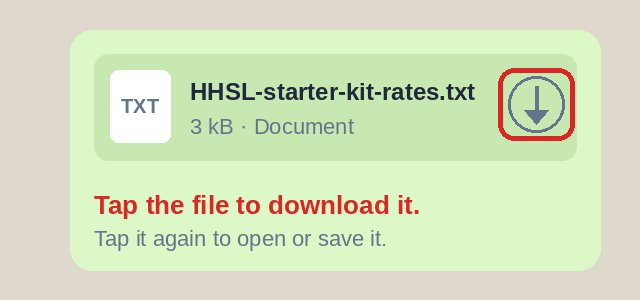
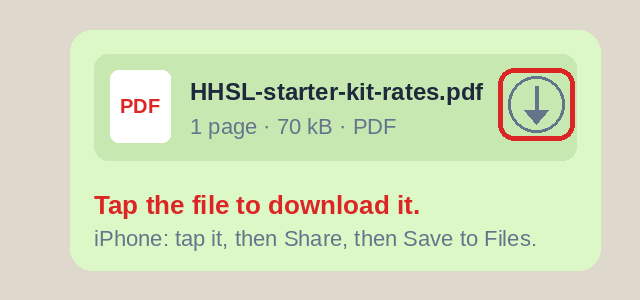
Guide: starter kit is a PDF (pictures and sender steps) (#30)
* Holiday / turnaround days read HOL/TAR in the list and on Home

* Timesheet: tick the sites and roles that go on the timesheet (and other jobs), edit the Client column text, press Save

* Menus pull down from their handle and title bar only; time picker uses AM/PM, hour and minute wheels (always saved as 24-hour)

* Payroll email says Good day; timesheet jobs show roles under each site, a read-out sentence, and a client-medic-everywhere option

Claude-Session: https://claude.ai/code/session_015B217MJCLoYGM2HCZFLF5v

* Time picker: smaller, softer time readout

Claude-Session: https://claude.ai/code/session_015B217MJCLoYGM2HCZFLF5v

* Share menu: starter kit tries .txt first (Android refuses .json); Send to payroll builds the file first, then opens the share menu with the email text

Claude-Session: https://claude.ai/code/session_015B217MJCLoYGM2HCZFLF5v

* Per-site 'Job requires lunch check' Yes/No (settings and Add site); No hides lunch options and pays the full time

Claude-Session: https://claude.ai/code/session_015B217MJCLoYGM2HCZFLF5v

* Colour picker: smaller round swatches in three rows, 12 more colours (existing sites keep theirs)

Claude-Session: https://claude.ai/code/session_015B217MJCLoYGM2HCZFLF5v

* Send to payroll: Download and share in one tap (saves to Downloads, stays on screen, opens the share menu); button becomes Share if the phone needs a second tap

Claude-Session: https://claude.ai/code/session_015B217MJCLoYGM2HCZFLF5v
[…]

diff --git a/guide/build_guide.py b/guide/build_guide.py
@@ -220,7 +220,7 @@ s.append(Paragraph("To give a colleague the app you send them <b>three things</b
 s.append(steps([
  ("Open <b>Settings</b> (the gear) and find <b>Share this app</b>. Tap it (or <b>More…</b>) to unfold it: the three buttons are inside. While it is open and you scroll, its title stays under the top bar; tap the title to fold it again. (The <b>Install on your phone</b> help at the top of Settings is hidden once the app is installed.)", A("a-share"), 50),
  ("<b>Send the link.</b> Tap <b>Share link</b>, pick <b>WhatsApp</b> and the person.", None),
- ("<b>Send the starter kit.</b> Tap <b>Share starter kit</b>, then <b>Yes, download and share</b>. The time is added to the saved file's name so it never clashes with an earlier copy.", Bs("b-share-ask"), 50),
+ ("<b>Send the starter kit.</b> Tap <b>Share starter kit</b>, then <b>Yes, download and share</b>. The kit is sent as a <b>PDF</b> (HHSL-starter-kit-rates.pdf), because WhatsApp lets your colleague download a PDF but only shows a text file as text. The time is added to the saved file's name so it never clashes with an earlier copy.", Bs("b-share-ask"), 50),
  ("The share menu opens. Pick <b>WhatsApp</b> (or Gmail) and the same person, and send the file.", Bs("b-share-after"), 50),
  ("<b>Send this guide.</b> Tap <b>Share guide (PDF)</b> and pick the same person. The guide is built into the app, so it is always the latest one. It needs a signal to load.", None)]))
 s.append(Paragraph(f"This guide is also here, if you ever need to download it again: {lk(LINK + GUIDE_FILE, GUIDE_FILE)}", small))

diff --git a/guide/capture/ill.py b/guide/capture/ill.py
@@ -65,13 +65,13 @@ save(im,"safari-add")
 im,d=canvas(300,(222,216,205))
 rr(d,(70,30,600,270),(220,248,198),22)
 rr(d,(94,54,576,160),(200,232,178),14)
-d.rounded_rectangle((110,70,170,142),8,fill=(255,255,255)); label(d,(140,106),"TXT",20,True,GREY,"mm")
-label(d,(190,78),"HHSL-starter-kit-rates.txt",24,True)
-label(d,(190,114),"3 kB · Document",22,fill=GREY)
+d.rounded_rectangle((110,70,170,142),8,fill=(255,255,255)); label(d,(140,106),"PDF",20,True,RED,"mm")
+label(d,(190,78),"HHSL-starter-kit-rates.pdf",24,True)
+label(d,(190,114),"1 page · 70 kB · PDF",22,fill=GREY)
 d.ellipse((508,76,564,132),outline=GREY,width=3); d.line((536,86,536,116),fill=GREY,width=4); d.polygon([(536,124),(524,110),(548,110)],fill=GREY)
 ring(d,(500,70,572,138),2)
 label(d,(94,190),"Tap the file to download it.",26,True,RED)
-label(d,(94,226),"Tap it again to open or save it.",22,fill=GREY)
+label(d,(94,226),"iPhone: tap it, then Share, then Save to Files.",22,fill=GREY)
 save(im,"whatsapp")
 
 # 7 Sheets phone: dots > Share & export > Save as > Excel
@@ -98,7 +98,7 @@ save(im,"sheets-phone")
 im,d=canvas(300)
 rr(d,(40,20,600,280),WHITE,22,outline=LINE)
 label(d,(70,44),"Recent files",26,True)
-for i,t in enumerate(["HHSL-starter-kit-rates.txt","photo_2026.jpg","statement.pdf"]):
+for i,t in enumerate(["HHSL-starter-kit-rates.pdf","photo_2026.jpg","statement.pdf"]):
     y=96+i*58
     if i==0: rr(d,(54,y-6,586,y+44),(222,243,240),10); ring(d,(54,y-6,586,y+44),2)
     d.rounded_rectangle((70,y+2,102,y+36),6,outline=GREY,width=3)
